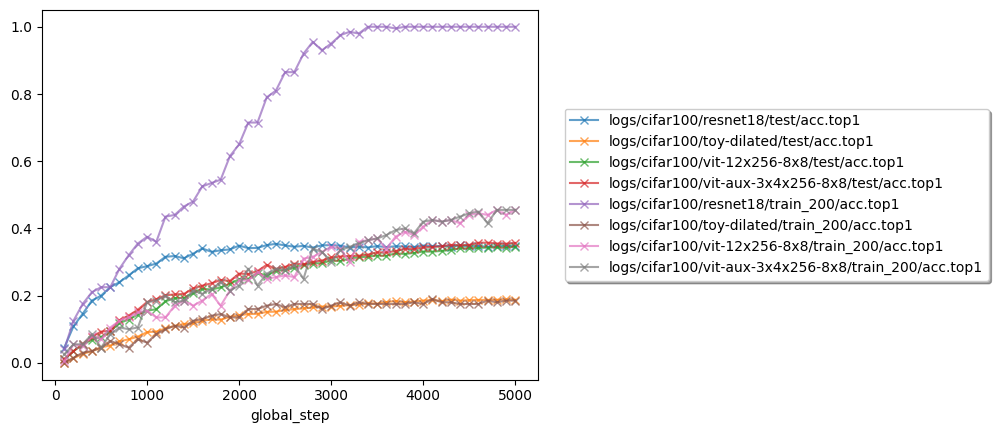
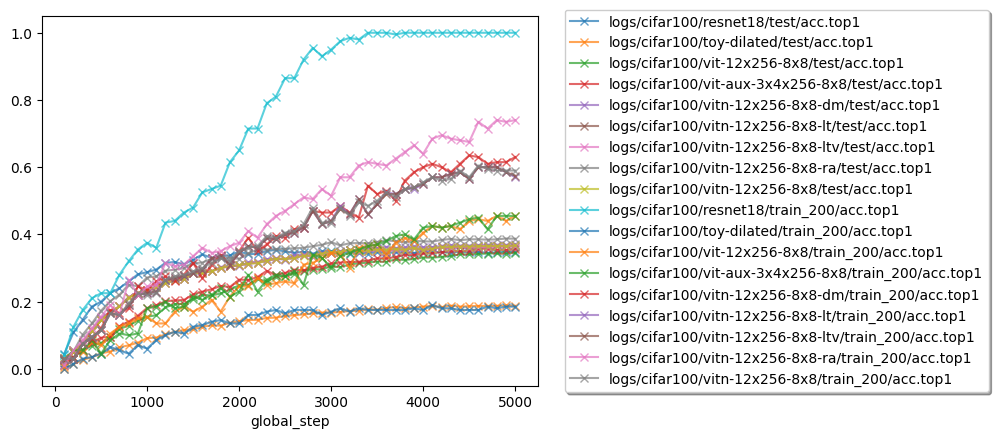
Update

diff --git a/scripts/get_all_taus.py b/scripts/get_all_taus.py
@@ -1,0 +1,20 @@
+import sys
+import torch
+
+assert len(sys.argv) == 2, "Give one path"
+
+state_dict = torch.load(sys.argv[1], "cpu")["module"]
+
+τs = []
+for key, val in state_dict.items():
+    if "log_one_div_by_τ" in key:
+        τ = (1 / val.exp()).item()
+        τs.append(τ)
+        print(key, val.item(), "τ", τ)
+    elif "τ" in key:
+        τ = val.item()
+        τs.append(τ)
+        print(key, τ)
+
+τs = torch.tensor(τs)
+print(f"{τs.mean().item():.3g}±{τs.std().item():.3g}")

diff --git a/README.md b/README.md
@@ -30,7 +30,7 @@ python -m src.summary
 
 ## Figures
 
-### Compare Different ResNet Settings
+### Different ResNet Settings
 
 ![](figures/resnets/loss.png)
 
@@ -45,17 +45,23 @@ python -m src.summary
 
 - Why does the loss suddenly drop periodically (after each epoch) for ResNet? Is it because of memorization?
 
-### Compare Different Models
+### Different Learning Strategies
+
+![](figures/learning/loss.png)
+
+![](figures/learning/acc.top1.png)
+
+### Different Models
 
 ![](figures/models/loss.png)
 
 ![](figures/models/acc.top1.png)
 
-### Compare Different Learning Strategies
+#### Insights
 
-![](figures/learning/loss.png)
-
-![](figures/learning/acc.top1.png)
+- The use of relative positional encoding [2] has been shown to improve model convergence and enhance testing performance when the model is trained for a specific number of steps.
+- Implementing a diagonal mask [3] results in a slight improvement in performance.
+- The learnable temperature for attention [3] does not improve performance in this particular setting, although it does result in a decrease in temperature. Specifically, for a log version implementation, the temperature is 0.9±0.0407, and for the vanilla version, the temperature is 0.892±0.0457.
 
 ## Tables
 
@@ -63,18 +69,23 @@ python -m src.summary
 
 | path                                         | split     | step | top1_acc |
 | :------------------------------------------- | :-------- | ---: | -------: |
-| logs/cifar100/resnet18-tnc/1673197467        | train_200 | 3700 |        1 |
-| logs/cifar100/resnet18/1673166948            | train_200 | 4800 |        1 |
-| logs/cifar100/resnet34/1673168398            | train_200 | 5000 |        1 |
-| logs/cifar100/resnet18-wonorm/1673167005     | train_200 | 4400 |        1 |
-| logs/cifar100/resnet18-clr1e-4/1673254216    | train_200 | 5000 |        1 |
-| logs/cifar100/resnet18-pcnorm/1673174156     | train_200 | 4400 |        1 |
+| logs/cifar100/resnet18-tnc/1673197467        | train_200 | 5000 |        1 |
+| logs/cifar100/resnet18-wonorm/1673167005     | train_200 | 4700 |        1 |
+| logs/cifar100/resnet18-pcnorm/1673174156     | train_200 | 4200 |        1 |
+| logs/cifar100/resnet18/1673166948            | train_200 | 4600 |        1 |
+| logs/cifar100/resnet18-clr1e-4/1673254216    | train_200 | 4200 |        1 |
+| logs/cifar100/resnet34/1673168398            | train_200 | 4700 |        1 |
 | logs/cifar100/resnet18-gn/1673170157         | train_200 | 5000 |    0.995 |
 | logs/cifar100/resnet18-ms1/1673171756        | train_200 | 5000 |    0.975 |
 | logs/cifar100/resnet18-ms2/1673170222        | train_200 | 5000 |    0.915 |
+| logs/cifar100/vitn-12x256-8x8-ra/1673260412  | train_200 | 4800 |     0.74 |
+| logs/cifar100/vitn-12x256-8x8-dm/1673261097  | train_200 | 4500 |    0.635 |
+| logs/cifar100/vitn-12x256-8x8/1673259921     | train_200 | 4600 |    0.605 |
+| logs/cifar100/vitn-12x256-8x8-lt/1673261904  | train_200 | 4600 |      0.6 |
+| logs/cifar100/vitn-12x256-8x8-ltv/1673263434 | train_200 | 4800 |      0.6 |
 | logs/cifar100/resnet18-ms3/1673171761        | train_200 | 4600 |    0.585 |
+| logs/cifar100/vit-aux-3x4x256-8x8/1673196895 | train_200 | 4900 |    0.455 |
 | logs/cifar100/vit-12x256-8x8/1673178974      | train_200 | 4800 |    0.455 |
-| logs/cifar100/vit-aux-3x4x256-8x8/1673196895 | train_200 | 4800 |    0.455 |
 | logs/cifar100/resnet18-aug/1673255003        | train_200 | 4200 |    0.405 |
 | logs/cifar100/toy-dilated/1673172683         | train_200 | 4100 |     0.19 |
 
@@ -83,9 +94,14 @@ python -m src.summary
 | path                                         | split | step | top1_acc |
 | :------------------------------------------- | :---- | ---: | -------: |
 | logs/cifar100/resnet18-aug/1673255003        | test  | 5000 |   0.4077 |
+| logs/cifar100/vitn-12x256-8x8-ra/1673260412  | test  | 4900 |   0.3877 |
 | logs/cifar100/resnet18-ms2/1673170222        | test  | 5000 |   0.3851 |
 | logs/cifar100/resnet18-ms1/1673171756        | test  | 4700 |   0.3768 |
+| logs/cifar100/vitn-12x256-8x8-dm/1673261097  | test  | 5000 |   0.3714 |
 | logs/cifar100/resnet18-gn/1673170157         | test  | 3500 |   0.3703 |
+| logs/cifar100/vitn-12x256-8x8/1673259921     | test  | 5000 |    0.367 |
+| logs/cifar100/vitn-12x256-8x8-lt/1673261904  | test  | 4900 |   0.3653 |
+| logs/cifar100/vitn-12x256-8x8-ltv/1673263434 | test  | 4900 |   0.3653 |
 | logs/cifar100/resnet18-ms3/1673171761        | test  | 5000 |   0.3617 |
 | logs/cifar100/vit-aux-3x4x256-8x8/1673196895 | test  | 4700 |   0.3575 |
 | logs/cifar100/resnet18-wonorm/1673167005     | test  | 3700 |   0.3572 |
@@ -100,3 +116,7 @@ python -m src.summary
 ## References
 
 [1] https://github.com/KaiyangZhou/mixstyle-release
+[2] https://arxiv.org/pdf/1901.02860.pdf
+[3] https://arxiv.org/pdf/2112.13492.pdf
+
+[!["Buy Me A Coffee"](https://www.buymeacoffee.com/assets/img/custom_images/orange_img.png)](https://www.buymeacoffee.com/enhuiz){:target="\_blank"}
